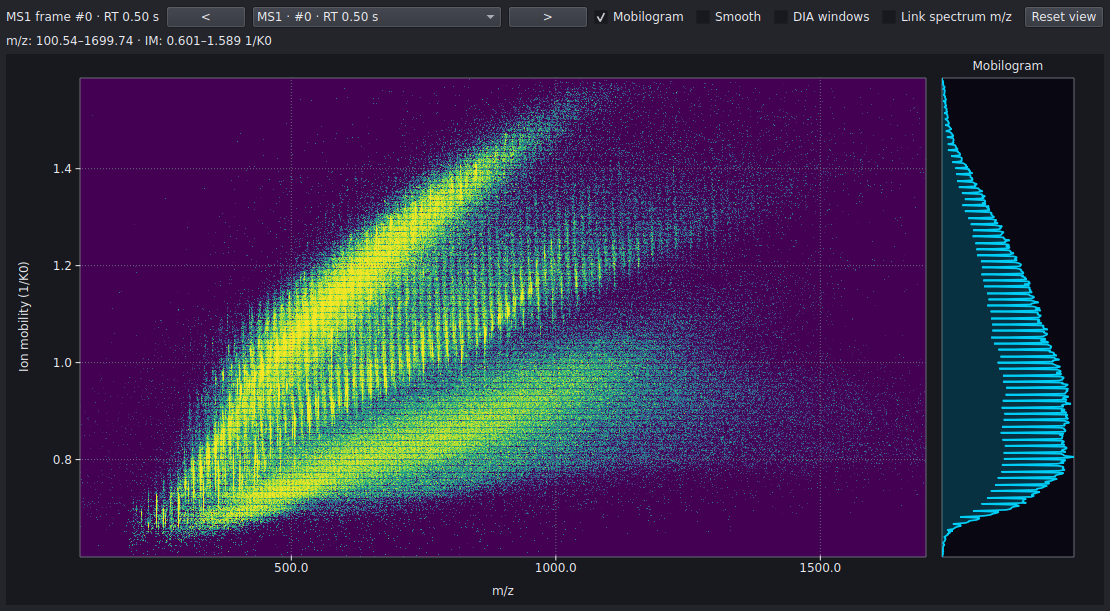
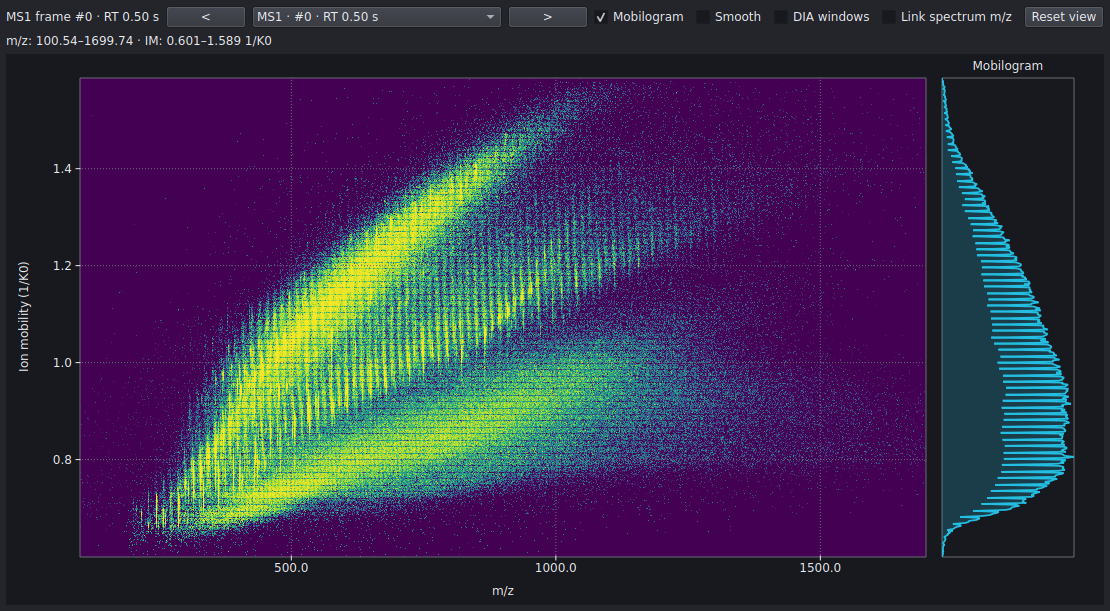
Make plot canvases theme-aware for light mode
The custom QPainter plots already read palette() for chrome, so most of a
light theme worked — but a handful of hardcoded colors broke it. Fix them
so the plots follow the View → Dark theme toggle in both directions.

- New src/plot/PlotTheme: stateless palette->accent helpers (isDark,
  primaryTrace, rangeHighlight) so the single-signal trace and range wash
  are consistent across plots and legible on a light or dark canvas.
- IonMobilityPanelWidget: the mobilogram sub-panel was a hardcoded near-black
  box (QColor(9,8,18)) that stayed dark in light mode; now palette Base with a
  theme-aware trace/fill.
- TIC / Chromatogram / FAIMS: the peak-map RT-range highlight was a warm
  yellow wash that read as an opaque cream block on a light background; now a
  subtle theme-aware tint (warm on dark, light-blue selection tint on light).
- FAIMS / Imaging raster backdrops (QColor(10,10,16)/(20,20,24)) now use the
  colormap floor, matching the peak map so masked/empty pixels look right in
  both themes; the near-white categorical trace entry swaps to a mid slate.
- MainWindow::setDarkTheme repaints all widgets so a live toggle re-themes the
  canvases immediately.
- gallery: SCREENSHOT_THEME=light renders the whole gallery in light mode
  (isolated from real user settings) for both-theme validation.

Verified in both themes via the gallery; dark mode unchanged/slightly cleaner.
Reviewed with Codex (no findings). Committed dark screenshots that shifted:
[…]

Changed region(s): [[0.8577, 0.2488, 0.9802, 0.8396], [0.8577, 0.8396, 0.8883, 0.8707]]

diff --git a/src/plot/PlotTheme.h b/src/plot/PlotTheme.h
@@ -1,0 +1,28 @@
+#pragma once
+
+#include <QColor>
+#include <QPalette>
+
+// Small, stateless helper for theme-aware plot colours. Widgets pass their live
+// palette() (which Qt keeps current across light/dark switches) and get back
+// semantic colours, so accent colours stay consistent across every custom plot
+// and legible on both a light and a dark canvas. Chrome (background, axis, text,
+// grid) should be read from the palette directly (Window/Base/Mid/Text); this
+// helper only covers the accents that need a hand-picked variant per theme.
+namespace OpenMSViewer::PlotTheme
+{
+  /// True when the widget palette is a dark theme (dark window background).
+  [[nodiscard]] inline bool isDark(const QPalette& palette)
+  {
+    return palette.color(QPalette::Window).lightnessF() < 0.5;
+  }
+
+  /// The canonical single-signal trace colour (mobilogram, TIC, aggregate
+  /// spectrum): a bright cyan on dark, a deep teal on light.
+  [[nodiscard]] QColor primaryTrace(const QPalette& palette);
+
+  /// A subtle range/selection wash for line plots (e.g. the peak-map RT range on
+  /// a chromatogram): warm and faint on dark, a light-blue selection tint on
+  /// light so it never reads as an opaque cream block.
+  [[nodiscard]] QColor rangeHighlight(const QPalette& palette);
+}

diff --git a/src/plot/PlotTheme.cpp b/src/plot/PlotTheme.cpp
@@ -1,0 +1,17 @@
+#include "plot/PlotTheme.h"
+
+namespace OpenMSViewer::PlotTheme
+{
+  QColor primaryTrace(const QPalette& palette)
+  {
+    return isDark(palette) ? QColor(35, 190, 225) : QColor(15, 110, 150);
+  }
+
+  QColor rangeHighlight(const QPalette& palette)
+  {
+    if (isDark(palette)) return QColor(255, 210, 40, 30);
+    QColor tint = palette.color(QPalette::Highlight);
+    tint.setAlpha(40);
+    return tint;
+  }
+}

diff --git a/src/widgets/IonMobilityPanelWidget.cpp b/src/widgets/IonMobilityPanelWidget.cpp
@@ -2,6 +2,7 @@
 
 #include "model/TraceSmoothing.h"
 #include "plot/PlotAxis.h"
+#include "plot/PlotTheme.h"
 
 #include <QtConcurrent/QtConcurrentRun>
 
@@ -417,12 +418,15 @@ namespace OpenMSViewer
 
   void IonMobilityPlotWidget::drawMobilogram(QPainter& painter, const QRect& area)
   {
-    painter.fillRect(area, QColor(9, 8, 18));
+    painter.fillRect(area, palette().color(QPalette::Base));
     painter.setPen(palette().color(QPalette::Mid));
     painter.drawRect(area);
     if (raster_.mobilogram.empty()) return;
     const float maximum = *std::max_element(raster_.mobilogram.begin(), raster_.mobilogram.end());
     if (maximum <= 0.0F) return;
+
+    const QColor trace = PlotTheme::primaryTrace(palette());
+    const auto withAlpha = [](QColor colour, int alpha) { colour.setAlpha(alpha); return colour; };
 
     // Intensity values to draw as the profile: raw, or a Savitzky-Golay smoothing.
     // Both are scaled by the RAW maximum so the smoothed profile stays comparable.
@@ -454,12 +458,12 @@ namespace OpenMSViewer
     // When smoothing, draw the raw profile faintly underneath the smoothed one.
     if (haveSmoothed)
     {
-      painter.setPen(QPen(QColor(0, 205, 245, 70), 1.0));
+      painter.setPen(QPen(withAlpha(trace, 70), 1.0));
       painter.drawPath(buildPath(raw, false));
     }
     const std::vector<double>& profile = haveSmoothed ? smoothed : raw;
-    painter.fillPath(buildPath(profile, true), QColor(0, 195, 235, 55));
-    painter.setPen(QPen(QColor(0, 205, 245), 1.7));
+    painter.fillPath(buildPath(profile, true), withAlpha(trace, 55));
+    painter.setPen(QPen(trace, 1.7));
     painter.drawPath(buildPath(profile, false));
     painter.restore();
     painter.setPen(palette().color(QPalette::Text));

diff --git a/tools/screenshots/gallery.cpp b/tools/screenshots/gallery.cpp
@@ -41,6 +41,8 @@
 #include <QDir>
 #include <QDockWidget>
 #include <QElapsedTimer>
+#include <QSettings>
+#include <QStandardPaths>
 #include <QTableView>
 #include <QTemporaryDir>
 #include <QThread>
@@ -483,6 +485,15 @@ int main(int argc, char** argv)
 {
   qputenv("QT_QPA_PLATFORM", qgetenv("QT_QPA_PLATFORM").isEmpty() ? QByteArray("offscreen") : qgetenv("QT_QPA_PLATFORM"));
   QApplication app(argc, argv);
+
+  // Isolate from the user's real settings and drive the theme MainWindow restores
+  // at construction. SCREENSHOT_THEME=light renders the whole gallery in light mode.
+  QApplication::setOrganizationName(QStringLiteral("OpenMSViewerGallery"));
+  QApplication::setApplicationName(QStringLiteral("OpenMSViewerGallery"));
+  QStandardPaths::setTestModeEnabled(true);
+  const bool lightTheme =
+    qEnvironmentVariable("SCREENSHOT_THEME").compare(QStringLiteral("light"), Qt::CaseInsensitive) == 0;
+  { QSettings settings; settings.setValue(QStringLiteral("appearance/dark"), !lightTheme); }
 
   // A failed load pops a modal error dialog whose exec() would block forever under
   // the offscreen platform. Auto-dismiss any modal so the load resolves to [skip].

diff --git a/src/widgets/FaimsPanelWidget.cpp b/src/widgets/FaimsPanelWidget.cpp
@@ -1,6 +1,7 @@
 #include "widgets/FaimsPanelWidget.h"
 
 #include "plot/PeakMapRasterizer.h"
+#include "plot/PlotTheme.h"
 
 #include <QtConcurrent/QtConcurrentRun>
 
@@ -28,7 +29,7 @@ namespace OpenMSViewer
   {
     constexpr std::array<QColor, 8> channelColors{
       QColor(142, 68, 173), QColor(52, 152, 219), QColor(46, 204, 113), QColor(241, 196, 15),
-      QColor(231, 76, 60), QColor(26, 188, 156), QColor(230, 126, 34), QColor(236, 240, 241)};
+      QColor(231, 76, 60), QColor(26, 188, 156), QColor(230, 126, 34), QColor(120, 144, 156)};
   }
 
   FaimsPeakMapsWidget::FaimsPeakMapsWidget(QWidget* parent) : QWidget(parent)
@@ -155,7 +156,7 @@ namespace OpenMSViewer
                        Qt::AlignLeft | Qt::AlignVCenter,
                        tr("CV %1 V · %2 scans").arg(channels_[index].compensationVoltage, 0, 'f', 1)
                                                  .arg(channels_[index].tic.size()));
-      painter.fillRect(imageArea, QColor(10, 10, 16));
+      painter.fillRect(imageArea, QColor::fromRgb(PeakMapRasterizer::color(0.0, PeakMapColorMap::Viridis)));
       if (index < images_.size() && !images_[index].isNull())
         painter.drawImage(imageArea, images_[index]);
     }
@@ -261,7 +262,7 @@ namespace OpenMSViewer
       const double rightRt = std::min(rtMax, peakMapRange_.rtMax);
       if (rightRt >= leftRt)
         painter.fillRect(QRectF(QPointF(xForRt(leftRt), area.top()),
-                                QPointF(xForRt(rightRt), area.bottom())), QColor(255, 210, 40, 42));
+                                QPointF(xForRt(rightRt), area.bottom())), PlotTheme::rangeHighlight(palette()));
     }
     int legendX = area.left();
     for (std::size_t channel = 0; channel < channels_.size(); ++channel)

diff --git a/src/widgets/ChromatogramPanelWidget.cpp b/src/widgets/ChromatogramPanelWidget.cpp
@@ -2,6 +2,7 @@
 
 #include "model/TraceSmoothing.h"
 #include "plot/PlotAxis.h"
+#include "plot/PlotTheme.h"
 
 #include <QAbstractTableModel>
 #include <QCheckBox>
@@ -273,7 +274,7 @@ namespace OpenMSViewer
       if (rightRt >= leftRt)
       {
         painter.fillRect(QRectF(QPointF(mapX(leftRt), area.top()),
-                                QPointF(mapX(rightRt), area.bottom())), QColor(255, 210, 40, 52));
+                                QPointF(mapX(rightRt), area.bottom())), PlotTheme::rangeHighlight(palette()));
       }
     }
 
@@ -293,7 +294,7 @@ namespace OpenMSViewer
 
     static constexpr std::array<QColor, 8> colors{
       QColor(52, 152, 219), QColor(231, 76, 60), QColor(46, 204, 113), QColor(155, 89, 182),
-      QColor(241, 196, 15), QColor(26, 188, 156), QColor(230, 126, 34), QColor(236, 240, 241)};
+      QColor(241, 196, 15), QColor(26, 188, 156), QColor(230, 126, 34), QColor(120, 144, 156)};
     // Polyline over the record's points; `values` supplies the intensity (raw, or
     // the cached Savitzky-Golay smoothing).
     const auto buildPath = [&](const ChromatogramRecord& record, const std::vector<double>* values)

diff --git a/src/MainWindow.cpp b/src/MainWindow.cpp
@@ -3104,6 +3104,9 @@ namespace OpenMSViewer
     if (!dark)
     {
       qApp->setPalette(style()->standardPalette());
+      // Custom plot canvases sample palette() at paint time; force a repaint so a
+      // live toggle re-themes them immediately.
+      for (QWidget* widget : findChildren<QWidget*>()) widget->update();
       return;
     }
     QPalette palette;
@@ -3122,6 +3125,7 @@ namespace OpenMSViewer
     palette.setColor(QPalette::PlaceholderText, QColor(145, 148, 158));
     palette.setColor(QPalette::Mid, QColor(105, 108, 118));
     qApp->setPalette(palette);
+    for (QWidget* widget : findChildren<QWidget*>()) widget->update();
   }
 
   void MainWindow::closeEvent(QCloseEvent* event)

diff --git a/src/widgets/ImagingPanelWidget.cpp b/src/widgets/ImagingPanelWidget.cpp
@@ -174,7 +174,7 @@ namespace OpenMSViewer
     }
     image_ = QImage(static_cast<int>(summary_.width), static_cast<int>(summary_.height),
                     QImage::Format_RGB32);
-    image_.fill(QColor(20, 20, 24));
+    image_.fill(viridis(0.0));  // colormap floor, so masked pixels match the data in both themes
     // Robust 99th-percentile scale (not the raw max) so one hot pixel doesn't dim
     // the whole image; values above it clamp to the top of the colormap. displayMax_
     // is the honest label (0 when there is no positive signal).
@@ -857,7 +857,7 @@ namespace OpenMSViewer
     std::vector<double> composite(ticImage_.size(), 0.0);
     QImage colorImage(static_cast<int>(summary_.width), static_cast<int>(summary_.height),
                       QImage::Format_RGB32);
-    colorImage.fill(QColor(20, 20, 24));
+    colorImage.fill(viridis(0.0));  // colormap floor for masked/empty pixels
     std::vector<double> maxima(overlays_.size(), 1.0);
     std::vector<std::pair<QColor, QString>> legend;
     for (std::size_t channel = 0; channel < overlays_.size(); ++channel)

diff --git a/src/widgets/TicWidget.cpp b/src/widgets/TicWidget.cpp
@@ -1,6 +1,7 @@
 #include "widgets/TicWidget.h"
 
 #include "plot/PlotAxis.h"
+#include "plot/PlotTheme.h"
 
 #include <QMouseEvent>
 #include <QKeyEvent>
@@ -161,7 +162,7 @@ namespace OpenMSViewer
       const double left = std::clamp(xForRt(peakMapRange_.rtMin), static_cast<double>(area.left()), static_cast<double>(area.right()));
       const double right = std::clamp(xForRt(peakMapRange_.rtMax), static_cast<double>(area.left()), static_cast<double>(area.right()));
       painter.fillRect(QRectF(QPointF(left, area.top()), QPointF(right, area.bottom())),
-                       QColor(255, 210, 40, 30));
+                       PlotTheme::rangeHighlight(palette()));
     }
 
     QPainterPath line;